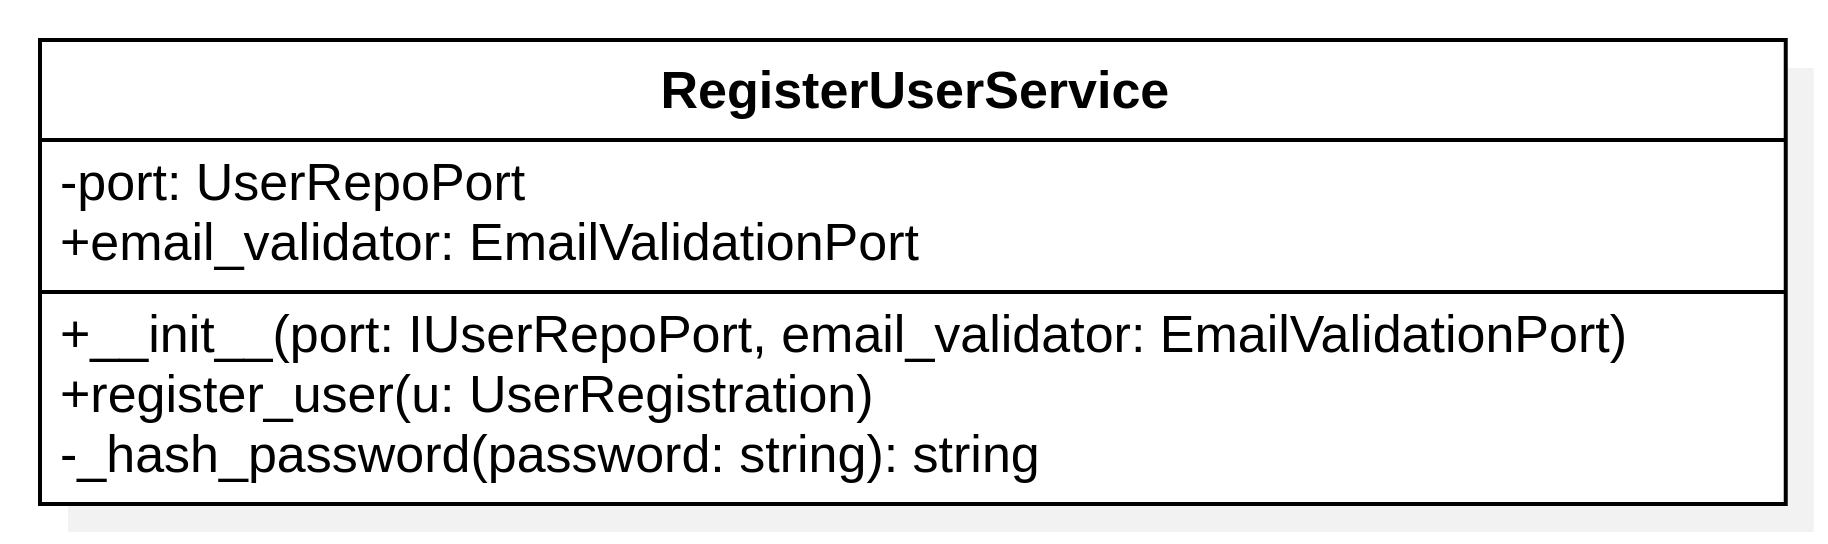
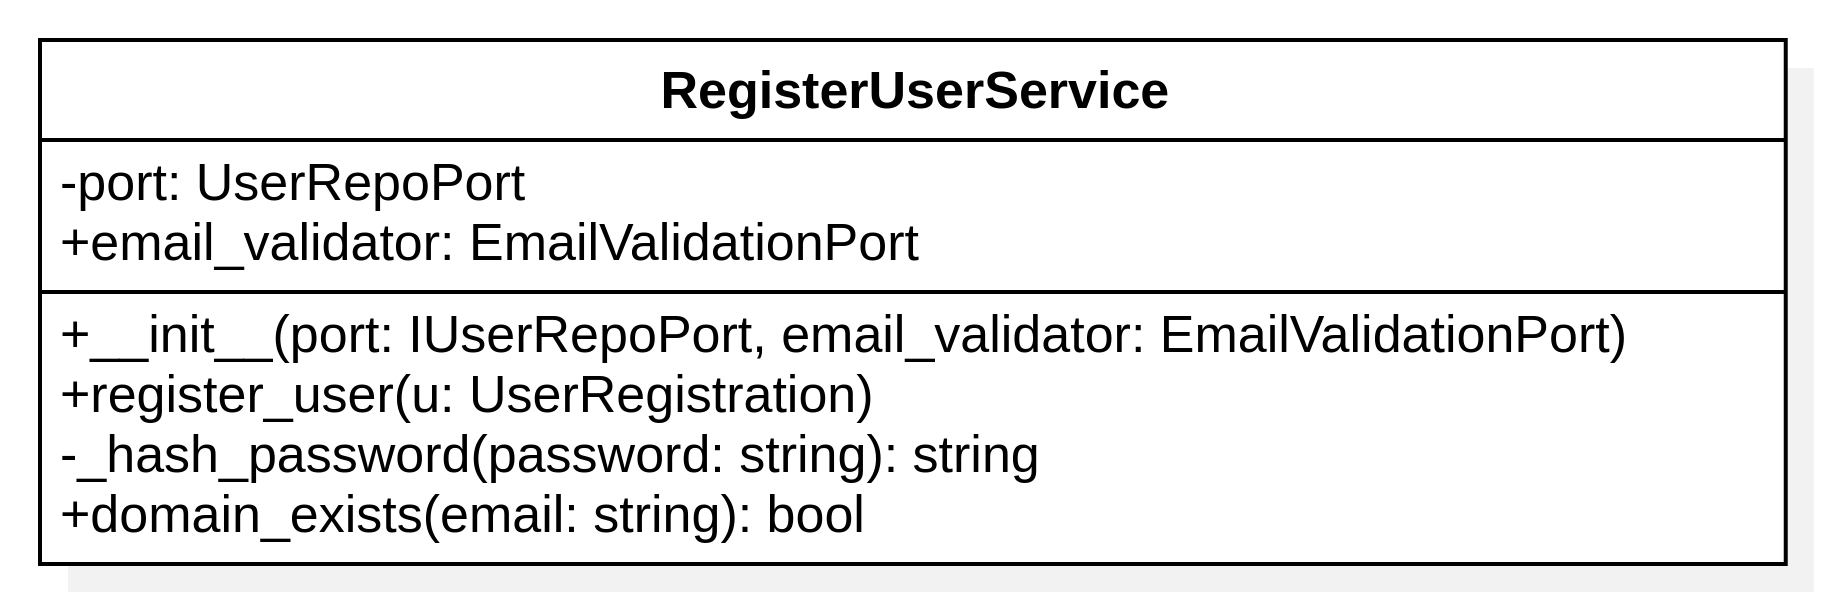
Sistemato problema mail

Changed region(s): [[0.0, 0.125, 0.9978, 0.9375], [0.0, 0.0625, 0.9978, 0.0938]]

diff --git a/src/PB/Documenti Esterni/Specifica Tecnica/content/diagrammi_classi/autenticazione_backend.tex b/src/PB/Documenti Esterni/Specifica Tecnica/content/diagrammi_classi/autenticazione_backend.tex
@@ -82,62 +82,22 @@ Riceve i dati di registrazione dal client e li delega al \textit{RegisterUserSer
 
 \paragraph{Descrizione}
 \textit{RegisterUserService} è il service applicativo responsabile$^G$ della registrazione di nuovi utenti.\\
-Verifica$^G$ la disponibilità di username ed email, valida il dominio dell'indirizzo email tramite \textit{EmailValidationPort} e persiste il nuovo utente tramite \textit{UserRepoPort} previa cifratura della password.
+Verifica$^G$ la disponibilità di username ed email, valida il dominio dell'indirizzo email e persiste il nuovo utente tramite \textit{UserRepoPort} previa cifratura della password.
 
 \paragraph{Attributi}
 \begin{itemize}
 	\item \textbf{port: UserRepoPort} - attributo privato di tipo \textit{UserRepoPort}.\\
 	Porta utilizzata per accedere al repository$^G$ degli utenti e verificare la disponibilità delle credenziali e salvare il nuovo utente.
-	\item \textbf{email\_validator: EmailValidationPort} - attributo pubblico di tipo \textit{EmailValidationPort}.\\
-	Porta utilizzata per validare l'esistenza del dominio dell'indirizzo email fornito durante la registrazione.
 \end{itemize}
 
 \paragraph{Metodi e funzioni}
 \begin{itemize}
-	\item \textbf{\_\_init\_\_(port: IUserRepoPort, email\_validator: EmailValidationPort)} - metodo pubblico di inizializzazione.\\
+	\item \textbf{\_\_init\_\_(port: IUserRepoPort)} - metodo pubblico di inizializzazione.\\
 	Riceve e memorizza la porta del repository$^G$ e il validatore email.
 	\item \textbf{register\_user(u: UserRegistration)} - metodo pubblico che gestisce il flusso completo di registrazione: verifica$^G$ la disponibilità di username ed email, valida il dominio email, cifra la password e salva il nuovo utente tramite il repository.
 	\item \textbf{\_hash\_password(password: string): string} - metodo privato che cifra la password in chiaro e restituisce la corrispondente stringa hashata da memorizzare nel database.
-\end{itemize}
-
-
-\subsubsubsection{EmailValidationPort}
-\begin{figure}[H]
-	\centering 
-	\includegraphics[width=0.5\textwidth]{SpecificaTecnica/Autenticazione/EmailValidationPort}
-	\caption{Autenticazione e Registrazione: EmailValidationPort}
-\end{figure}
-
-\paragraph{Descrizione}
-\textit{EmailValidationPort} è un'interfaccia che definisce il contratto per la validazione$^G$ del dominio di un indirizzo email.\\
-Viene implementata da \textit{EmailValidationAdapter} e utilizzata da \textit{RegisterUserService} per verificare che il dominio dell'email fornita esista effettivamente.
-
-\paragraph{Attributi}
-Essendo un'interfaccia, non definisce attributi.
-
-\paragraph{Metodi e funzioni}
-\begin{itemize}
 	\item \textbf{domain\_exists(email: string): bool} - metodo pubblico che verifica$^G$ l'esistenza del dominio dell'indirizzo email fornito.\\
-	Viene concretizzato dalla sua implementazione EmailValidationAdapter.
 \end{itemize}
-
-
-\subsubsubsection{EmailValidationAdapter}
-\begin{figure}[H]
-	\centering 
-	\includegraphics[width=0.4\textwidth]{SpecificaTecnica/Autenticazione/EmailValidationAdapter}
-	\caption{Autenticazione e Registrazione: EmailValidationAdapter}
-\end{figure}
-
-\paragraph{Descrizione}
-\textit{EmailValidationAdapter} è la classe concreta che implementa l'interfaccia \textit{EmailValidationPort}.\\
-Si occupa di effettuare la verifica$^G$ effettiva dell'esistenza del dominio di un indirizzo email, incapsulando la logica di interrogazione DNS o di un servizio esterno di validazione.
-
-\paragraph{Attributi}
-\textit{EmailValidationAdapter} non definisce attributi.
-
-\paragraph{Metodi e funzioni}
-\textit{EmailValidationAdapter} implementa il metodo \textit{domain\_exists} definito dalla porta \textit{EmailValidationPort}, fornendo la logica concreta per la verifica$^G$ del dominio email.
 
 \subsubsubsection{DeleteUserController}
 \begin{figure}[H]
